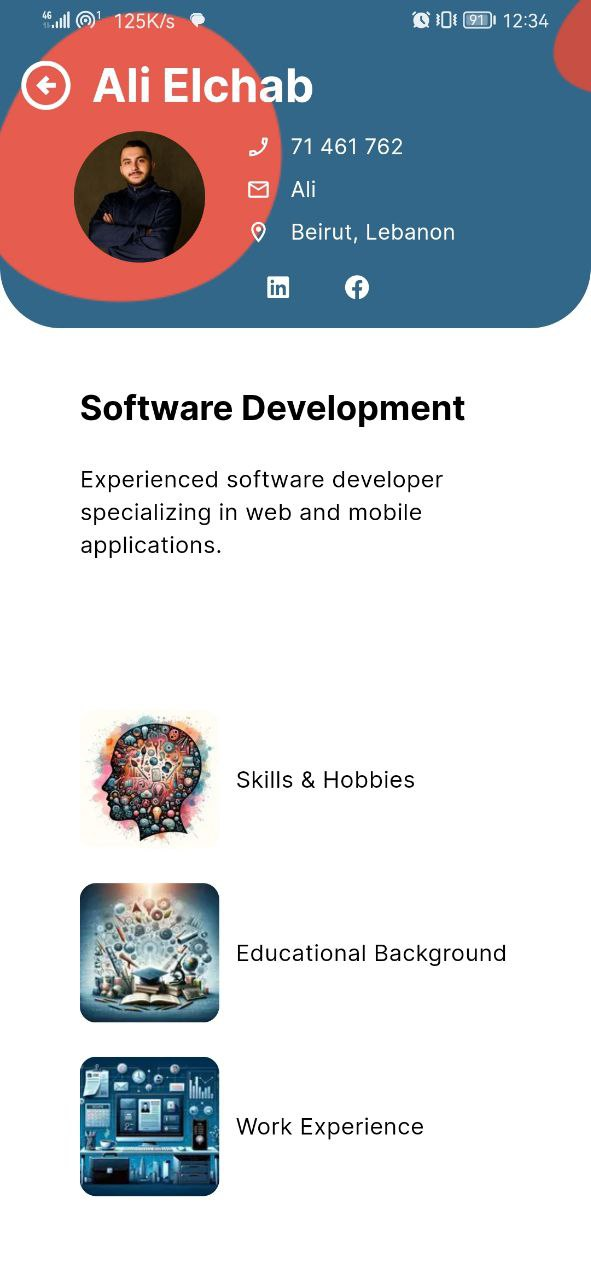
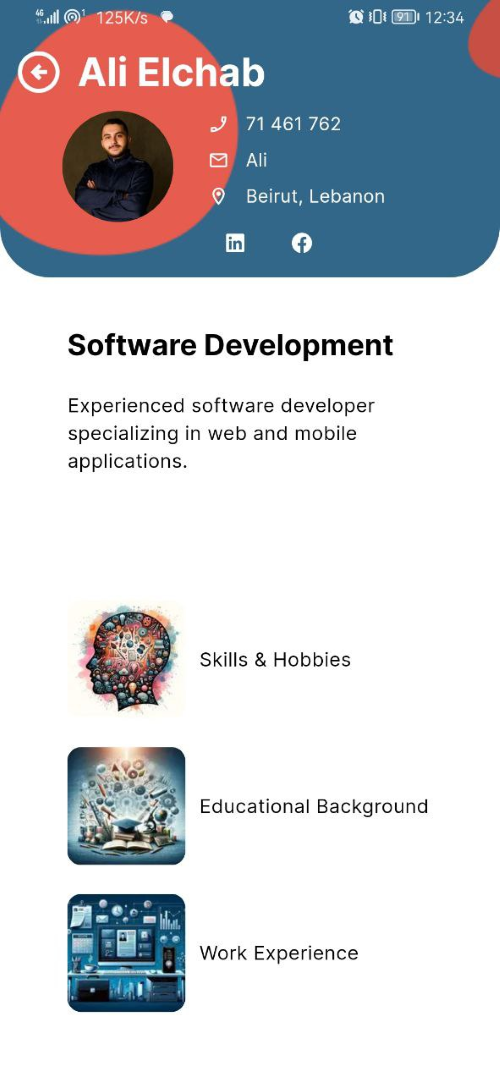
Readme: Adjusted images resolution, added aws commands scrollable div

diff --git a/README.md b/README.md
@@ -90,13 +90,17 @@
 
 ### Startup Screens
 
-| Sign Up Process                             | Home Screen                                    | Contact Advisors                       | Guides & Templates                       |
-| ------------------------------------------- | ---------------------------------------------- | -------------------------------------- | ---------------------------------------- |
-| ![Landing](./readme/GIFs/signup.gif)        | ![Landing](./readme/GIFs/home.gif)             | ![Landing](./readme/GIFs/advisors.gif) | ![Landing](./readme/GIFs/guides.gif)     |
-| Notifications                               | AI Assistant                                   | Job Board                              | Remove Job                               |
-| ![Landing](./readme/GIFs/notifications.gif) | ![Landing](./readme/GIFs/ai.gif)               | ![Landing](./readme/GIFs/post-job.gif) | ![Landing](./readme/GIFs/remove-job.gif) |
-| Suggested Candidates                        | Contact / Reject Applicants                    | View Job Seeker Profile                | AI Assistant                             |
-| ![Landing](./readme/GIFs/suggested.gif)     | ![Landing](./readme/GIFs/reject-applicant.gif) | ![Landing](./readme/GIFs/signup.gif)   | ![Landing](./readme/GIFs/ai.gif)         |
+| Sign Up Process                      | Home Screen                        | Contact Advisors                       | Guides & Templates                   |
+| ------------------------------------ | ---------------------------------- | -------------------------------------- | ------------------------------------ |
+| ![Landing](./readme/GIFs/signup.gif) | ![Landing](./readme/GIFs/home.gif) | ![Landing](./readme/GIFs/advisors.gif) | ![Landing](./readme/GIFs/guides.gif) |
+
+| Notifications                               | AI Assistant                     | Job Board                              | Remove Job                               |
+| ------------------------------------------- | -------------------------------- | -------------------------------------- | ---------------------------------------- |
+| ![Landing](./readme/GIFs/notifications.gif) | ![Landing](./readme/GIFs/ai.gif) | ![Landing](./readme/GIFs/post-job.gif) | ![Landing](./readme/GIFs/remove-job.gif) |
+
+| Suggested Candidates                    | Contact / Reject Applicants                    | View Job Seeker Profile              | AI Assistant                     |
+| --------------------------------------- | ---------------------------------------------- | ------------------------------------ | -------------------------------- |
+| ![Landing](./readme/GIFs/suggested.gif) | ![Landing](./readme/GIFs/reject-applicant.gif) | ![Landing](./readme/GIFs/signup.gif) | ![Landing](./readme/GIFs/ai.gif) |
 
 ### Job Seeker Screens
 
@@ -108,29 +112,37 @@
 
 ### Startup Profile
 
-| Splash Screen                                           | Signup                                                      | Contact Advisors                                   |
-| ------------------------------------------------------- | ----------------------------------------------------------- | -------------------------------------------------- |
-| ![Landing](./readme/mobile-screenshots/splash.png)      | ![fsdaf](./readme/mobile-screenshots/signup.png)            | ![fsdaf](./readme/mobile-screenshots/advisors.png) |
-| Suggested Candidates                                    | Candidates Profile                                          | AI Assistant                                       |
-| ![Landing](./readme/mobile-screenshots/hire-talent.png) | ![fsdaf](./readme/mobile-screenshots/candidate-profile.png) | ![fsdaf](./readme/mobile-screenshots/ai.png)       |
-| Job Board                                               | Post A Job                                                  | Guides & Templates                                 |
-| ![Landing](./readme/mobile-screenshots/job-board.png)   | ![fsdaf](./readme/mobile-screenshots/post-job.png)          | ![fsdaf](./readme/mobile-screenshots/guides.png)   |
+| Splash Screen                                      | Signup                                           | Home screen                                            | Guides & Templates                                 |
+| -------------------------------------------------- | ------------------------------------------------ | ------------------------------------------------------ | -------------------------------------------------- |
+| ![Landing](./readme/mobile-screenshots/splash.png) | ![fsdaf](./readme/mobile-screenshots/signup.png) | ![fsdaf](./readme/mobile-screenshots/startup-home.png) | ![Landing](./readme/mobile-screenshots/guides.png) |
+
+| Suggested Candidates                                    | Candidates Profile                                          | Notification                                           | AI Assistant                                 |
+| ------------------------------------------------------- | ----------------------------------------------------------- | ------------------------------------------------------ | -------------------------------------------- |
+| ![Landing](./readme/mobile-screenshots/hire-talent.png) | ![fsdaf](./readme/mobile-screenshots/candidate-profile.png) | ![fsdaf](./readme/mobile-screenshots/notification.png) | ![fsdaf](./readme/mobile-screenshots/ai.png) |
+
+| Job Board                                             | Post A Job                                         | Guides & Templates                               | Contact Advisors                                   |
+| ----------------------------------------------------- | -------------------------------------------------- | ------------------------------------------------ | -------------------------------------------------- |
+| ![Landing](./readme/mobile-screenshots/job-board.png) | ![fsdaf](./readme/mobile-screenshots/post-job.png) | ![fsdaf](./readme/mobile-screenshots/guides.png) | ![fsdaf](./readme/mobile-screenshots/advisors.png) |
 
 ### Job Seeker Profile
 
-| Home                                                       | Job Opportunities                                             | Job Post View                                       |
-| ---------------------------------------------------------- | ------------------------------------------------------------- | --------------------------------------------------- |
-| ![Landing](./readme/mobile-screenshots/jobseeker-home.png) | ![fsdaf](./readme/mobile-screenshots/job-opportunities.png)   | ![fsdaf](./readme/mobile-screenshots/job-post.jpeg) |
-| AI Assistant                                               | Edit Profile                                                  |
-| ![fsdaf](./readme/mobile-screenshots/initialAI.png)        | ![Landing](./readme/mobile-screenshots/jobseeker-profile.png) |
+| Home                                                       | Job Posts                                                   | Job Post View                                      | Requirememts                                                  |
+| ---------------------------------------------------------- | ----------------------------------------------------------- | -------------------------------------------------- | ------------------------------------------------------------- |
+| ![Landing](./readme/mobile-screenshots/jobseeker-home.png) | ![fsdaf](./readme/mobile-screenshots/job-opportunities.png) | ![fsdaf](./readme/mobile-screenshots/job-post.png) | ![Landing](./readme/mobile-screenshots/jobseeker-profile.png) |
+
+| AI Assitant                                           | Suggested Courses                                           | Trending Articles                                  | Edit Profile                                                  |
+| ----------------------------------------------------- | ----------------------------------------------------------- | -------------------------------------------------- | ------------------------------------------------------------- |
+| ![Landing](./readme/mobile-screenshots/initialAI.png) | ![fsdaf](./readme/mobile-screenshots/job-opportunities.png) | ![fsdaf](./readme/mobile-screenshots/job-post.png) | ![Landing](./readme/mobile-screenshots/jobseeker-profile.png) |
 
 ### Admin Screens (Electron)
 
-| Signin                                      | Dashboard                                             |
-| ------------------------------------------- | ----------------------------------------------------- |
-| ![Landing](./readme/electron-ss/signin.png) | ![fsdaf](./readme/electron-ss/dashboard.png)          |
-| User Management                             | Content Management                                    |
-| ![Landing](./readme/electron-ss/users.png)  | ![fsdaf](./readme/electron-ss/content-management.png) |
+| Signin                                      | Dashboard                                    |
+| ------------------------------------------- | -------------------------------------------- |
+| ![Landing](./readme/electron-ss/signin.png) | ![fsdaf](./readme/electron-ss/dashboard.png) |
+
+| User Management                            | Content Management                                    |
+| ------------------------------------------ | ----------------------------------------------------- |
+| ![Landing](./readme/electron-ss/users.png) | ![fsdaf](./readme/electron-ss/content-management.png) |
 
 <br>
 
@@ -154,8 +166,47 @@ Prompt for chat assisting job seekers
 <img src="./readme/svgs/aws.svg">
 
 > My project takes advantage of AWS's powerful cloud infrastructure for deploying my models. This integration allows us to handle increased traffic and data loads with ease, ensuring high availability and minimal downtime. AWS's tools and services provide the necessary flexibility and efficiency, making our AI solutions more accessible and reliable for users. <a href="./readme/aws-commands.md">Here</a>, you would find the commands used to deploy on Amazon Linux server.
-> <br>
+> <a href="./readme/aws-commands.md">[List Of Commands]</a> > <br>
 
+<div style="height:200px; overflow-y: scroll; background-color:black">
+<pre style="height:200px; overflow-y: scroll; color:white">
+   sudo systemctl enable --now httpd
+   sudo systemctl enable --now mariadb
+   sudo mysql
+   CREATE DATABASE launchhub;
+   CREATE USER username'@'localhost' IDENTIFIED BY 'password'
+   GRANT ALL ON yourdb.* to 'user'@'localhost';
+   FLUSH PRIVILEGES;
+   curl -sS https://getcomposer.org/installer | php
+   sudo mv composer.phar /usr/local/bin/composer
+   sudo chmod +x /usr/local/bin/composer
+   cd /var/www
+   sudo dnf install git -y
+   sudo git clone https://github.com/launchhub/server/alielchab.git
+   cd /var/www/launchhub/server
+   sudo chown -R $USER /var/www/launchhub/server
+   composer install
+   sudo chown -R apache.apache /var/www/launchhub/server
+   sudo chmod -R 755 /var/www/launchhub/server
+   sudo chmod -R 777 /var/www/launchhub/server/storage
+   sudo cp .env.example .env
+   sudo php artisan key:generate
+   sudo nano .env
+   "Edit env file"
+   sudo nano /etc/httpd/conf.d/laravel.conf
+   inside the file:
+
+         <VirtualHost \*:80
+            ServerName launchhub.example.com
+            DocumentRoot /var/www/launchhub/server/public
+               Directory /var/www/launchhub/server>
+                     AllowOverride All
+               </Directory>
+         </VirtualHost>
+
+</pre>
+</div>
+<br>
 <!-- How to run -->
 <img src="./readme/svgs/unit-testing.svg"/>
 
@@ -212,7 +263,7 @@ _Below is an example of how you can instruct your audience on installing and set
    ```
 
    Here's a reference to get your keys
-   [OpenAI Key](https://platform.openai.com/docs/api-reference), [Udemy API](https://www.udemy.com/developers/), [News API](https://newsapi.org), [Firebase](https://firebase.google.com)
+   [OpenAI Key](https://platform.openai.com/docs/api-reference), [Udemy API](https://www.udemy.com/developers/instructor/), [News API](https://newsapi.org), [Firebase](https://firebase.google.com)
 
 6. Get Migrations
 
